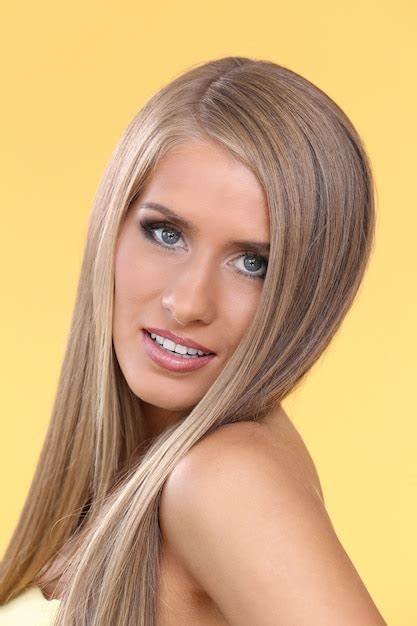
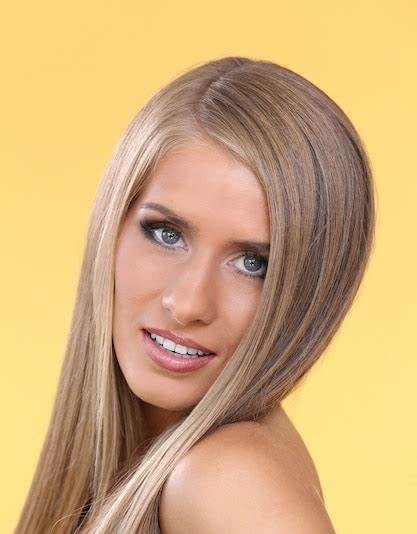
Update image paths to use PUBLIC_URL for better asset management

diff --git a/src/CarouselComponent.js b/src/CarouselComponent.js
@@ -15,28 +15,28 @@ const CarouselComponent = () => {
         showIndicators={true}
       >
         <div>
-          <img src="/images/1.jpeg" alt="Imagen 1" />
+          <img src={`${process.env.PUBLIC_URL}/images/1.jpeg`} alt="Imagen 1" />
         </div>
         <div>
-          <img src="/images/2.jpeg" alt="Imagen 2" />
+          <img src={`${process.env.PUBLIC_URL}/images/2.jpeg`} alt="Imagen 2" />
         </div>
         <div>
-          <img src="/images/3.jpeg" alt="Imagen 3" />
+          <img src={`${process.env.PUBLIC_URL}/images/3.jpeg`} alt="Imagen 3" />
         </div>
         <div>
-          <img src="/images/4.jpeg" alt="Imagen 4" />
+          <img src={`${process.env.PUBLIC_URL}/images/4.jpeg`} alt="Imagen 4" />
         </div>
         <div>
-          <img src="/images/5.jpeg" alt="Imagen 5" />
+          <img src={`${process.env.PUBLIC_URL}/images/5.jpeg`} alt="Imagen 5" />
         </div>
         <div>
-          <img src="/images/6.jpeg" alt="Imagen 6" />
+          <img src={`${process.env.PUBLIC_URL}/images/6.jpeg`} alt="Imagen 6" />
         </div>
         <div>
-          <img src="/images/7.jpeg" alt="Imagen 7" />
+          <img src={`${process.env.PUBLIC_URL}/images/7.jpeg`} alt="Imagen 7" />
         </div>
         <div>
-          <img src="/images/8.jpeg" alt="Imagen 8" />
+          <img src={`${process.env.PUBLIC_URL}/images/8.jpeg`} alt="Imagen 8" />
         </div>
       </Carousel>
     </div>

diff --git a/src/App.js b/src/App.js
@@ -21,7 +21,7 @@ function App() {
             👹
           </p>
           <img
-            src="/images/kk.jpeg"
+            src={`${process.env.PUBLIC_URL}/images/kk.jpeg`}
             alt="Shitpost"
             style={{
               width: '100%',
@@ -46,7 +46,7 @@ function App() {
             
           </p>
           <img
-            src="/images/pp.jpeg"
+            src={`${process.env.PUBLIC_URL}/images/pp.jpeg`}
             alt="Meme de cumpleaños"
             style={{
               width: '100%',
@@ -56,7 +56,7 @@ function App() {
               boxShadow: '0 4px 15px rgba(0, 0, 0, 0.5)',
             }}
           /> <img
-          src="/images/xd.jpg"
+          src={`${process.env.PUBLIC_URL}/images/xd.jpg`}
           alt="Meme de cumpleaños"
           style={{
             width: '100%',

diff --git a/src/Popup.js b/src/Popup.js
@@ -53,7 +53,7 @@ const Popup = () => {
         Esta página es solo para amantes de las góticas culonas.
       </p>
       <img
-        src="/images/cum.png"
+        src={`${process.env.PUBLIC_URL}/images/cum.png`}
         alt="CUMtry"
         style={{
           width: "150px",
